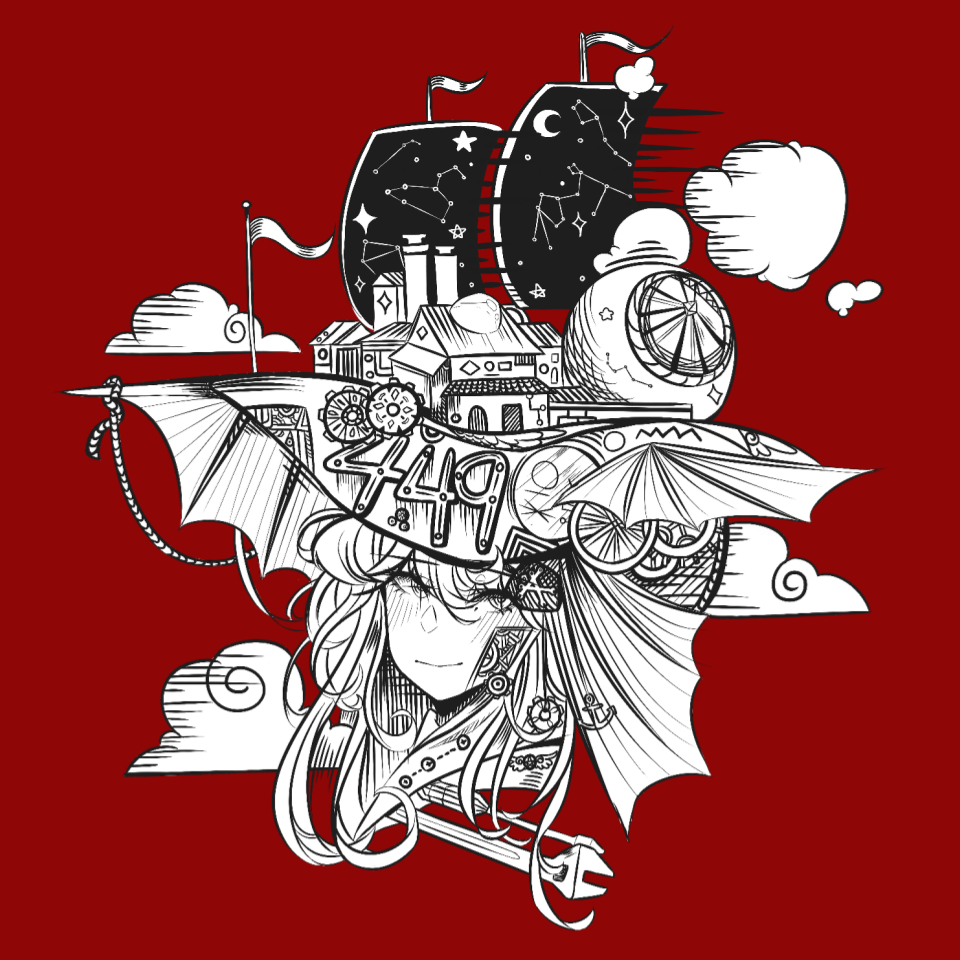
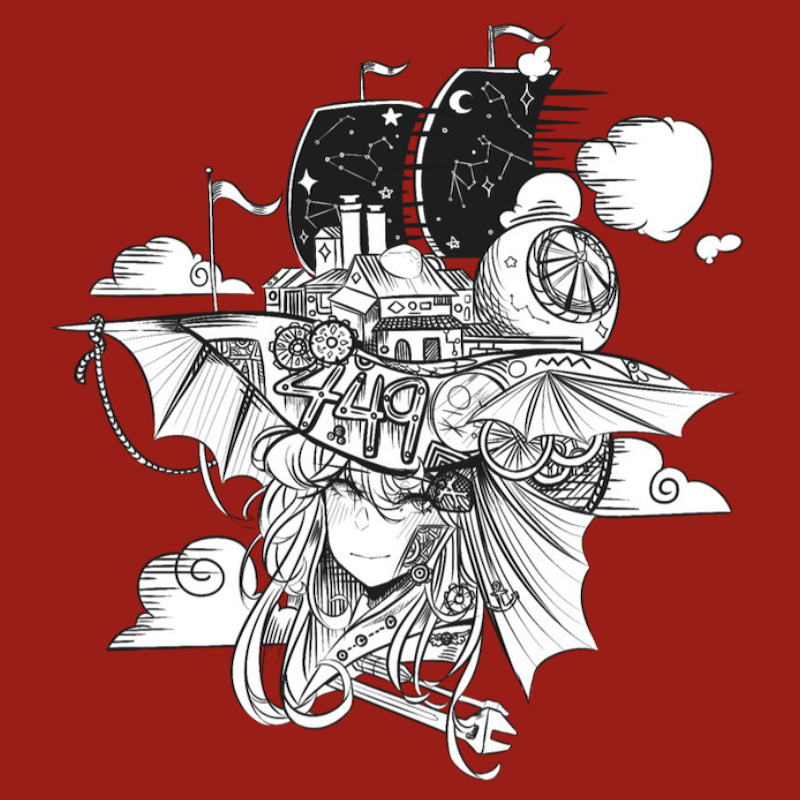
Daily backup for Sun May 11 22:34:01 UTC 2025

Changed region(s): [[0.0625, 0.0312, 0.9375, 1.0]]

diff --git a/user/pages/02.ABOUT-US/04.HISTORY/22.t-shirt-designs/02._features/feature-images.md b/user/pages/02.ABOUT-US/04.HISTORY/22.t-shirt-designs/02._features/feature-images.md
@@ -16,7 +16,7 @@ features:
         text: 'Artist: Allison L and Victoria R'
         url: null
     -
-        image: '2023 shirt rescaled.jpg'
+        image: '2023 shirt.png'
         header: 'CHARGED UP 2023 Name: Voyager'
         text: 'Artist: Lillian Z'
         url: null
@@ -44,6 +44,11 @@ features:
         image: '2017 shirt rescaled.jpg'
         header: 'STEAMWORKS 2017 Name: Calcifer'
         text: 'Artist: Sally Zhao'
+        url: null
+    -
+        image: '2016 shirt.png'
+        header: 'STRONGHOLD 2016 Name: ROUS'
+        text: null
         url: null
     -
         image: '2015 shirt.png'
